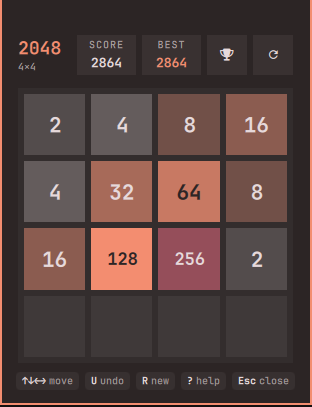
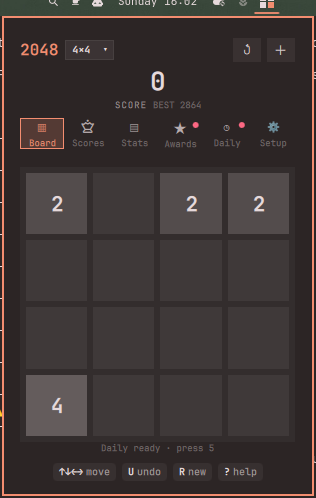
docs: refresh README screenshots and preview for 2.0.0

diff --git a/README.md b/README.md
@@ -1,6 +1,6 @@
 # 2048
 
-The classic 2048 sliding-tile game in a keyboard-driven, theme-aware Omarchy bar panel — with undo, six board sizes, stats, achievements and a daily challenge.
+The classic 2048 sliding-tile game in a keyboard-driven, theme-aware Omarchy bar panel — with undo, six board sizes, stats, achievements and a daily challenge. Navigation lives in a visible six-tab bar, and the header puts the live score first.
 
 ![2048 panel](preview.png)
 
@@ -15,7 +15,7 @@ The classic 2048 sliding-tile game in a keyboard-driven, theme-aware Omarchy bar
 ## Features
 
 **Game**
-- Boards from **3×3 to 8×8** (3, 4, 5, 6, 7 and 8). Each size keeps its own saved game, best score and top-10 leaderboard; switch with `[` / `]`, the header badge, or the settings page.
+- Boards from **3×3 to 8×8** (3, 4, 5, 6, 7 and 8). Each size keeps its own saved game, best score and top-10 leaderboard; switch with `[` / `]`, the header size chip (its inline picker), or the settings page.
 - **Undo** the last 50 moves (`U` / `Ctrl+Z`), including out of a game over or the win card. A game that used undo is marked *assisted* and never enters the leaderboard.
 - Slide/pop animation, a `+N` gain indicator, a score count-up, invalid-move shake, big-merge glow rings (128+ and stronger at 1024+), a combo badge for streaks, and confetti on 2048/4096.
 - **Optional sound** (off by default): a merge blip whose pitch rises with the tile.
@@ -29,7 +29,14 @@ The classic 2048 sliding-tile game in a keyboard-driven, theme-aware Omarchy bar
 **Look and feel**
 - Theme-native by default: every colour comes from the active Omarchy theme, and tile text is chosen by WCAG contrast. Optional **classic 2048**, **mono** and **high-contrast** palettes.
 - **Numerals** in five scripts (Western, Arabic-Indic, Devanagari, Bengali, CJK) on tiles and scores.
-- **Window scale** 90–150 %, a `motion` setting (full / reduced / off) that gates every animation, and a header/footer that stays out of the way.
+- **Window scale** 90–150 %, a `motion` setting (full / reduced / off) that gates every animation (including the page fade), and a short per-page footer.
+
+### Navigation
+
+- A **visible six-tab bar** — Board · Scores · Stats · Awards · Daily · Setup — reachable by click, `1`–`6`, or `T` / `Shift+T`. The active tab is highlighted, and a small dot marks news (a daily ready to play, or an unseen badge).
+- The **header is score-first**: the live score is the hero, best is a small secondary, the board-size chip opens an **inline picker**, and undo / new game are grouped on the right.
+- **Settings** is grouped into Game · Look · Sound & motion · Advanced; **Reset stats** lives under Advanced behind a confirm prompt (stats and badges are cleared, bests and leaderboards are kept).
+- `?` opens the **full keyboard help** as an overlay; footers stay short and per page. Settings and Help scroll with the arrow keys or `j` / `k`.
 
 ### Compared with a typical 2048 plugin
 
@@ -66,14 +73,15 @@ No other dependencies. The plugin itself bundles no runtime beyond these.
 
 | Key / input | Action |
 |---|---|
-| Arrow keys / `H` `J` `K` `L` / `W` `A` `S` `D` | Move tiles |
+| Arrow keys / `H` `J` `K` `L` / `W` `A` `S` `D` | Move tiles (arrows / `j` `k` scroll on Settings and Help) |
 | Drag or swipe on the board | Move tiles (mouse / touchpad) |
 | `U` or `Ctrl+Z` | Undo the last move |
-| `[` / `]` or the header size badge | Switch board size (3×3 – 8×8) |
+| `[` / `]` or the header size chip | Switch board size (3×3 – 8×8); the chip opens an inline picker |
+| `1` … `6` | Jump to a tab: Board · Scores · Stats · Awards · Daily · Setup |
+| `T` / `Shift+T` | Next / previous tab |
 | `R` | New game (a confirm prompt if the setting is on) |
-| `T` | Next page: board → scores → stats → achievements → daily → settings → help |
-| `?` | Keyboard help |
-| `Enter` / `Space` | Keep going after 2048; new game after game over |
+| `?` | Keyboard help (full key list) |
+| `Enter` / `Space` | Keep going after 2048; new game after game over; play the daily |
 | `Esc` | Back a page, leave the daily, or close the panel |
 | `Tab` | Switch to the neighbouring bar panel |
 
